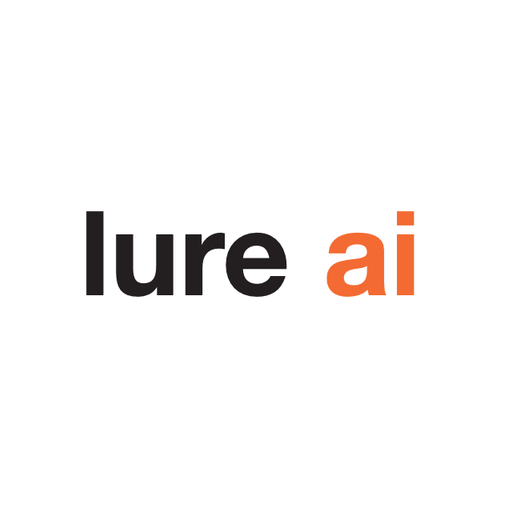
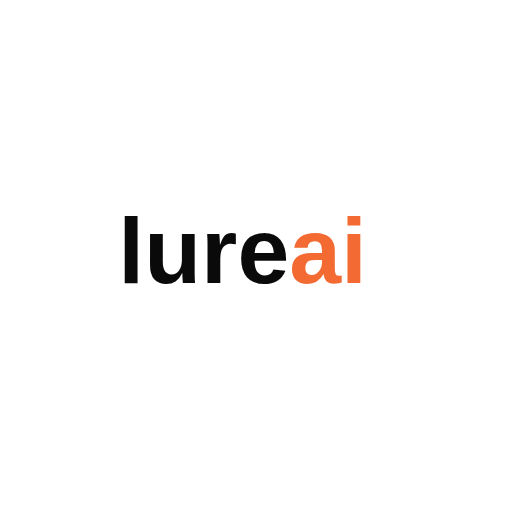
feat: 新版 lureai 品牌資產、右上回覆模式標示與介面減法
- logo 改緊排 lureai（lure 黑＋ai 橘、無空隙），favicon 與全部 app icon 以新 logo 重產
- topbar 右側常駐回覆模式膠囊（專家／客服），點擊直開語氣設定
- 移除輸入框下方 meta 列（知識範圍說明與字數統計）
- 輸入列 focus 也不加陰影，只用邊框變深提示
- 客服模式斷句改依語意：取消 10 字硬拆（會切壞句子），模型每行一則、指令要求語意完整處換行
- 後台知識庫列出全部並顯示「共 N 則」：修掉 200 筆雙重上限（查詢 limit 與回應切片）吃掉最後 9 塊的問題

測試 197 全綠；Playwright 驗證模式標示切換與後台 209 全列

Changed region(s): [[0.1562, 0.4062, 0.8125, 0.5938]]

diff --git a/static/app.css b/static/app.css
@@ -125,6 +125,9 @@ button:focus-visible, a:focus-visible, input:focus-visible, textarea:focus-visib
 .topbar { position: relative; min-height: 66px; display: flex; align-items: center; justify-content: space-between; padding: 8px 18px; }
 .topbar h1 { max-width: min(32vw, 420px); margin: 0; overflow: hidden; color: var(--ink); font-size: 15px; font-weight: 600; text-overflow: ellipsis; white-space: nowrap; opacity: 1; }
 .is-empty .topbar-title { opacity: 0; pointer-events: none; }
+/* 右上角常駐的回覆模式標示（點擊開語氣設定） */
+.tone-indicator { margin-left: auto; min-height: 28px; padding: 4px 13px; color: var(--ink-soft); background: var(--bubble); border: 0; border-radius: var(--radius-pill); cursor: pointer; font-size: 12px; font-weight: 600; white-space: nowrap; }
+.tone-indicator:hover { color: var(--ink); background: var(--hover); }
 .topbar-title { min-width: 0; display: flex; align-items: center; gap: 2px; margin-right: auto; }
 .rename-button { width: 30px; height: 30px; color: var(--muted); flex: 0 0 30px; }
 .rename-button svg { width: 15px; height: 15px; }
@@ -204,7 +207,8 @@ button:focus-visible, a:focus-visible, input:focus-visible, textarea:focus-visib
 .is-empty .composer-shell { position: absolute; top: 42%; left: 0; right: 0; bottom: auto; padding: 0 40px; background: transparent; }
 .composer { width: min(820px, 100%); min-height: 58px; display: flex; align-items: center; gap: 8px; margin: 0 auto; padding: 7px 8px 7px 12px; background: var(--surface); border: 1px solid var(--line-strong); border-radius: 28px; }
 .is-empty .composer { width: min(640px, 100%); }
-.composer:focus-within { border-color: #c8c8c8; box-shadow: 0 5px 20px rgba(0, 0, 0, 0.1); }
+/* 輸入列永遠不加陰影（含 focus），只用邊框變深提示 */
+.composer:focus-within { border-color: #c8c8c8; }
 .composer textarea { min-width: 0; max-height: 160px; flex: 1; resize: none; padding: 9px 4px; color: var(--ink); background: transparent; border: 0; outline: 0; line-height: 1.5; }
 .composer textarea::placeholder { color: var(--muted); }
 .composer-tool, .composer-action { width: 40px; height: 40px; flex: 0 0 40px; display: grid; place-items: center; padding: 0; border: 0; border-radius: 50%; cursor: pointer; }
@@ -218,8 +222,6 @@ button:focus-visible, a:focus-visible, input:focus-visible, textarea:focus-visib
 .send-action:hover { background: #3d3d3d; }
 .send-action:disabled { color: #a5a5a5; background: #e6e6e6; cursor: default; }
 .stop-action { color: #fff; background: var(--ink); }
-.composer-meta { width: min(820px, 100%); display: flex; align-items: center; gap: 10px; justify-content: space-between; margin: 7px auto 0; color: var(--muted); font-size: 10px; }
-.is-empty .composer-meta { display: none; }
 
 /* 語氣設定：專家（條列講深）／客服（真人聊天一句一句回） */
 .tone-toggle { display: inline-flex; gap: 2px; padding: 2px; background: var(--bubble); border-radius: var(--radius-pill); }
@@ -338,6 +340,7 @@ button:focus-visible, a:focus-visible, input:focus-visible, textarea:focus-visib
 .table-status { display: inline-flex; padding: 3px 8px; color: var(--ok); background: var(--ok-soft); border-radius: var(--radius-pill); font-size: 10px; font-weight: 700; }
 .table-status.escalated { color: var(--warning); background: var(--warning-soft); }
 .empty-state { padding: 24px; color: var(--muted); text-align: center; font-size: 12px; }
+.knowledge-count { margin: 2px 2px 0; color: var(--muted); font-size: 12px; }
 .toast { position: fixed; right: 22px; bottom: 22px; z-index: 80; max-width: min(360px, calc(100vw - 44px)); padding: 11px 16px; color: #fff; background: var(--ink); border-radius: var(--radius-sm); box-shadow: 0 10px 30px rgba(0, 0, 0, .2); opacity: 0; pointer-events: none; transform: translateY(8px); transition: opacity 140ms ease, transform 140ms ease; font-size: 12px; }
 .toast.show { opacity: 1; transform: translateY(0); }
 .toast.error { background: var(--warning); }
@@ -383,8 +386,6 @@ button:focus-visible, a:focus-visible, input:focus-visible, textarea:focus-visib
   .account-content { padding: 16px 14px; }
   .composer-tool, .composer-action { width: 38px; height: 38px; flex-basis: 38px; }
   .retrieval-mode { display: none; }
-  .composer-meta #knowledge-scope { display: none; }
-  .composer-meta { justify-content: flex-end; }
   .admin-shell { display: block; }
   .admin-nav { position: sticky; top: 0; z-index: 20; width: 100%; height: auto; padding: max(10px, env(safe-area-inset-top)) 12px 10px; border-right: 0; border-bottom: 1px solid var(--line); }
   .admin-brand, .admin-nav-label { display: none; }

diff --git a/static/chat.js b/static/chat.js
@@ -34,6 +34,8 @@
       button.classList.toggle("active", active);
       button.setAttribute("aria-pressed", String(active));
     });
+    // 右上角常駐顯示目前的回覆模式。
+    el("tone-indicator").textContent = state.tone === "service" ? "客服模式" : "專家模式";
     if (save) {
       try { localStorage.setItem(toneKey(), state.tone); } catch (_) { /* 存不進去就用預設 */ }
     }
@@ -475,35 +477,16 @@
 
   // 客服模式：像真人一句一句發訊息。
   // - 引用編號只給系統核對，句尾不顯示 [1]——來源照樣列在泡泡下方。
-  // - 標點一律拿掉（保留數字裡的小數點），以空白分段，像平常打字。
-  // - 每則不超過 10 個字，太長的自動拆成下一則。
-  const SERVICE_BUBBLE_MAX = 10;
-
+  // - 標點一律拿掉，以空白分段，像平常打字（「～」保留）。
+  // - 依語意斷句：模型的每一行就是一則訊息，不做字數硬拆（硬拆會把句子切壞）。
   function serviceSentences(content) {
-    const lines = String(content || "")
+    return String(content || "")
       .split("\n")
       .map((line) => line.trim().replace(/^(?:[-*•]|\d{1,2}[.)])\s+/, ""))
       .map((line) => line.replace(/\s*\[\d{1,2}\]/g, ""))
       .map((line) => line.replace(/[，。、；：！？!?；「」『』（）()]/g, " "))
       .map((line) => line.replace(/\s+/g, " ").trim())
       .filter(Boolean);
-    const bubbles = [];
-    for (const line of lines) {
-      let current = "";
-      for (let segment of line.split(" ")) {
-        while (segment.length > SERVICE_BUBBLE_MAX) {
-          if (current) { bubbles.push(current); current = ""; }
-          bubbles.push(segment.slice(0, SERVICE_BUBBLE_MAX));
-          segment = segment.slice(SERVICE_BUBBLE_MAX);
-        }
-        if (!segment) continue;
-        if (!current) current = segment;
-        else if (current.length + 1 + segment.length <= SERVICE_BUBBLE_MAX) current += ` ${segment}`;
-        else { bubbles.push(current); current = segment; }
-      }
-      if (current) bubbles.push(current);
-    }
-    return bubbles;
   }
 
   function renderServiceBubbles(content) {
@@ -766,7 +749,6 @@
   function updateComposer() {
     prompt.style.height = "auto";
     prompt.style.height = `${Math.min(prompt.scrollHeight, 160)}px`;
-    el("char-count").textContent = `${prompt.value.length} / 1200`;
   }
 
   function registerServiceWorker() {
@@ -908,7 +890,6 @@
     const appName = body.app_name || "LUREAI 你的智慧大腦中心";
     document.title = appName;
     prompt.placeholder = "輸入輔導問題";
-    el("knowledge-scope").textContent = "回答僅使用已核准內部輔導知識";
     el("index-scope").textContent = "內部索引已隔離";
   }
 
@@ -941,6 +922,10 @@
   });
   el("account-backdrop").addEventListener("click", () => toggleAccountMenu(false));
   el("account-close").addEventListener("click", () => toggleAccountMenu(false));
+  el("tone-indicator").addEventListener("click", () => {
+    document.querySelector('.account-tab[data-tab="settings"]')?.click();
+    toggleAccountMenu(true);
+  });
   el("new-chat").addEventListener("click", newConversation);
   el("sidebar-search").addEventListener("click", () => {
     const search = el("conversation-search");

diff --git a/static/index.html b/static/index.html
@@ -99,6 +99,7 @@
           <input id="conversation-title-input" class="title-input" maxlength="40" aria-label="編輯對話名稱" hidden>
           <button id="rename-conversation" class="icon-button rename-button" type="button" title="編輯名稱" aria-label="編輯對話名稱"><i data-lucide="pencil"></i></button>
         </div>
+        <button id="tone-indicator" class="tone-indicator" type="button" title="目前的回覆模式，點擊開啟語氣設定">專家模式</button>
       </header>
 
       <section id="messages" class="messages" aria-live="polite"></section>
@@ -109,7 +110,6 @@
           <button id="stop-button" class="composer-action stop-action" type="button" title="停止產生" aria-label="停止產生" hidden><i data-lucide="square"></i></button>
           <button id="send-button" class="composer-action send-action" type="submit" title="送出訊息" aria-label="送出訊息"><i data-lucide="arrow-up"></i></button>
         </form>
-        <div class="composer-meta"><span id="knowledge-scope">回答僅使用已核准知識</span><span id="char-count">0 / 1200</span></div>
       </div>
     </main>
 

diff --git a/static/admin.js b/static/admin.js
@@ -313,7 +313,7 @@
       const body = await api(`/api/admin/chunks?q=${query}&origin=${origin}&domain=${domain}`, { timeoutMs: 15000 });
       knowledgeCache = body.items || [];
       el("knowledge-results").innerHTML = knowledgeCache.length
-        ? knowledgeCache.map(knowledgeCard).join("")
+        ? `<div class="knowledge-count">共 ${knowledgeCache.length} 則</div>` + knowledgeCache.map(knowledgeCard).join("")
         : '<div class="empty-state">沒有符合的知識</div>';
       window.lucide?.createIcons();
     } catch (error) {

diff --git a/tests/test_static_ui.py b/tests/test_static_ui.py
@@ -139,8 +139,9 @@ class StaticUiTests(unittest.TestCase):
     def test_service_mode_talks_like_a_real_person(self):
         script = CHAT_JS.read_text(encoding="utf-8")
 
-        # 每則 10 字內、標點改空白、逐句 1~2 秒發送。
-        self.assertIn("SERVICE_BUBBLE_MAX = 10", script)
+        # 依語意斷句（不做字數硬拆）、標點改空白、逐句 1~2 秒發送。
+        self.assertNotIn("SERVICE_BUBBLE_MAX", script)
+        self.assertIn("不做字數硬拆", script)
         self.assertIn("function serviceSentences", script)
         self.assertIn("function revealServiceMessage", script)
         self.assertIn("pendingReveal", script)
@@ -165,6 +166,25 @@ class StaticUiTests(unittest.TestCase):
         self.assertIn(".account-modal", css)
         card_rule = css.split(".account-card {", 1)[1].split("}", 1)[0]
         self.assertIn("grid-template-columns", card_rule)
+
+    def test_topbar_shows_the_active_reply_mode(self):
+        html = INDEX.read_text(encoding="utf-8")
+        script = CHAT_JS.read_text(encoding="utf-8")
+        css = CSS.read_text(encoding="utf-8")
+
+        # 右上角常駐顯示目前的回覆模式，點擊開語氣設定。
+        self.assertIn('id="tone-indicator"', html)
+        self.assertIn("客服模式", script)
+        self.assertIn("專家模式", script)
+        self.assertIn(".tone-indicator", css)
+
+    def test_composer_meta_row_is_removed(self):
+        html = INDEX.read_text(encoding="utf-8")
+
+        # 使用者要求移除輸入框下方的知識範圍說明與字數統計。
+        self.assertNotIn("composer-meta", html)
+        self.assertNotIn('id="char-count"', html)
+        self.assertNotIn('id="knowledge-scope"', html)
 
     def test_answers_offer_thumbs_feedback(self):
         script = CHAT_JS.read_text(encoding="utf-8")
@@ -201,6 +221,9 @@ class StaticUiTests(unittest.TestCase):
 
         composer_rule = css.split(".composer {", 1)[1].split("}", 1)[0]
         self.assertNotIn("box-shadow", composer_rule)
+        # focus（按下輸入框）也不加陰影。
+        focus_rule = css.split(".composer:focus-within {", 1)[1].split("}", 1)[0]
+        self.assertNotIn("box-shadow", focus_rule)
         self.assertIn(".is-empty .composer { width: min(640px, 100%); }", css)
 
     def test_new_chat_reuses_the_existing_empty_conversation(self):
@@ -217,6 +240,12 @@ class StaticUiTests(unittest.TestCase):
             self.assertIn('content="#ffffff" media="(prefers-color-scheme: light)"', html)
             self.assertIn('name="color-scheme" content="light"', html)
         self.assertIn("color-scheme: light;", CSS.read_text(encoding="utf-8"))
+
+    def test_admin_knowledge_list_shows_total_count(self):
+        script = ADMIN_JS.read_text(encoding="utf-8")
+
+        # 知識庫清單顯示「共 N 則」，搭配後端列出全部（不再吃 200 筆上限）。
+        self.assertIn("knowledge-count", script)
 
     def test_admin_replaces_native_selects_with_in_page_dropdowns(self):
         script = ADMIN_JS.read_text(encoding="utf-8")

diff --git a/app/server.py b/app/server.py
@@ -446,7 +446,8 @@ def create_server(host: str, port: int, context: AppContext) -> ThreadingHTTPSer
                         if chunk["chunk_id"] in found
                     ]
                 else:
-                    items = context.store.list_chunks(limit=200, origin=origin, domain=domain)
+                    # 沒搜尋時列出全部：知識庫超過 200 塊後，硬上限會讓清單「滑到底就沒了」。
+                    items = context.store.list_chunks(limit=100000, origin=origin, domain=domain)
                 # Send only what the list renders: the full rows carry
                 # metadata_json and search_text, which made this a 1.5 MB reply.
                 self._json(HTTPStatus.OK, {"items": [
@@ -461,7 +462,7 @@ def create_server(host: str, port: int, context: AppContext) -> ThreadingHTTPSer
                         "text": str(item["text"])[:400],
                         "length": len(str(item["text"])),
                     }
-                    for item in items[:200]
+                    for item in items
                 ]})
                 return
             if parsed.path.startswith("/api/"):

diff --git a/app/answer.py b/app/answer.py
@@ -59,8 +59,8 @@ TONE_INSTRUCTIONS = {
     "service": (
         "\n\n## 語氣設定：客服模式（覆蓋前面的條列與字數規則）\n"
         "你像真人在通訊軟體上一句一句回訊息，口吻專業、穩重、親切。\n"
-        "每行是一則獨立的短訊息：每則不超過 10 個字，一句講一件事；"
-        "一件事 10 個字講不完，就拆成兩則接著發。總共 4~8 行。\n"
+        "每行是一則獨立的短訊息：依語意斷句、一句講一件事，盡量精短（15 字內為佳）；"
+        "一件事講不完就在語意完整的地方換行，接著發下一則，絕對不要把一句話切到一半。總共 4~8 行。\n"
         "不用標點符號（，。、！？都不要），需要斷開就用空白，像平常打字；「～」可以用。\n"
         "語氣要溫暖有人味，不要像機器人：句尾適度加「唷」「呀」「～」（隔兩三句加一次，不要每句都加）；"
         "不用「啦」。數字一律用阿拉伯數字（例如 3 天、2 選 1），不要寫成中文數字。\n"

diff --git a/MEMORY.md b/MEMORY.md
@@ -10,13 +10,21 @@
 
 ## 產品決策
 
-- **2026-09-01 客服模式真人化（使用者細部規格）**：專業穩重親切、語尾不用「啦」可用「唷」；每則訊息不超過 10 個字（講不完拆成下一則，前端 `serviceSentences` 也做安全網拆句）；不用任何標點符號、以空白分段；數字一律阿拉伯數字。回覆像真人打字：第一句直接出現，之後每句停 1~2 秒（`pendingReveal`＋輸入中點點），狀態列／來源／追問全部發完才顯示；串流期間不吐字。逐句泡泡只在模型成功回覆（model_status=used）時啟用，降級知識原文維持一般排版。
+- **2026-09-01 品牌資產更新**：logo 改為緊排「lureai」（`logo.svg` 單一 text＋tspan：lure 黑 #0a0a0a、ai 橘 #f36b32，無空隙）；favicon／app-icon／app-icon-192／app-icon-maskable 全部以新 logo 重產（白底置中，maskable 留安全邊）。iOS 使用者要刪掉主畫面圖示重新加入才會看到新 icon。
+
+- **2026-09-01 右上角回覆模式標示**：topbar 右側常駐顯示「專家模式／客服模式」膠囊（`#tone-indicator`），點擊直接開帳號彈窗的設定分頁；`setTone` 同步更新文字。
+
+- **2026-09-01 介面再減法**：移除輸入框下方整排 meta（「回答僅使用已核准知識」與字數統計 0/1200），使用者要求畫面更乾淨。
+
+- **2026-09-01 後台知識庫「滑到底就沒了」**：`/api/admin/chunks` 無搜尋時的 200 筆上限吃掉了 209 塊中的最後 9 塊——改為列出全部，清單頂端顯示「共 N 則」。
+
+- **2026-09-01 客服模式真人化（使用者細部規格）**：專業穩重親切、語尾不用「啦」可用「唷」；每則訊息精短並**依語意斷句**（原本的 10 字硬拆會把「2 個選/擇」切壞，使用者要求取消——前端不做字數硬拆，模型每行＝一則訊息，指令要求 15 字內為佳、絕不切半句）；不用任何標點符號、以空白分段；數字一律阿拉伯數字。回覆像真人打字：第一句直接出現，之後每句停 1~2 秒（`pendingReveal`＋輸入中點點），狀態列／來源／追問全部發完才顯示；串流期間不吐字。逐句泡泡只在模型成功回覆（model_status=used）時啟用，降級知識原文維持一般排版。
 
 - **2026-09-01 帳號彈窗（左下角→置中卡片）**：語氣切換與本月用量移進「按名字打開」的彈窗。第一版是貼著帳號列的小面板，使用者改要求「彈窗卡片＋二分欄」：現在是置中 560px 卡片（壓暗背板），左欄導覽（設定／用量，含 icon）、右欄內容；手機版左欄縮到 96px。背板、X、Escape 都會關閉；打開時順手刷新用量。側欄不再常駐用量卡。
 
 - **2026-09-01 回答評分（👍👎）**：每則回答下方有 thumbs up/down，POST `/api/feedback`（登入限定）存 SQLite `feedback` 表（同一人同一則只留一票，重按改票）；`GET /api/admin/feedback` 可拉回饋清單（JOIN 稽核帶出問題與分數），供之後挑出要加強的知識。前端評分同時存 localStorage 顯示選取狀態。
 
-- **2026-09-01 介面細修一批**：(1) 引用區加「知識來源：」標籤、編號籤縮小（25px 高、15px 圓號）；(2) 空白頁輸入框縮到 640px（手機 400px）、全站輸入列拿掉陰影；(3) 「新對話」不重複疊空白對話——已有空的就切過去，按鈕也拿掉常駐底色；(4) 刪除對話不用瀏覽器原生 confirm，改頁內兩段式（按一下變「確定刪除」，3 秒內再按才刪）。
+- **2026-09-01 介面細修一批**：(1) 引用區加「知識來源：」標籤、編號籤縮小（25px 高、15px 圓號）；(2) 空白頁輸入框縮到 640px（手機 400px）、輸入列永遠不加陰影（含 focus，只用邊框變深提示）；(3) 「新對話」不重複疊空白對話——已有空的就切過去，按鈕也拿掉常駐底色；(4) 刪除對話不用瀏覽器原生 confirm，改頁內兩段式（按一下變「確定刪除」，3 秒內再按才刪）。
 
 - **2026-09-01 客服語氣加溫**：使用者回饋正式站回覆「太冰冷」——指令加上「溫暖有人味」：句尾適度加「唷」「呀」「～」（隔兩三句一次），仍然不用「啦」；「～」列為允許符號，前端去標點清單也放行「～」。
 
